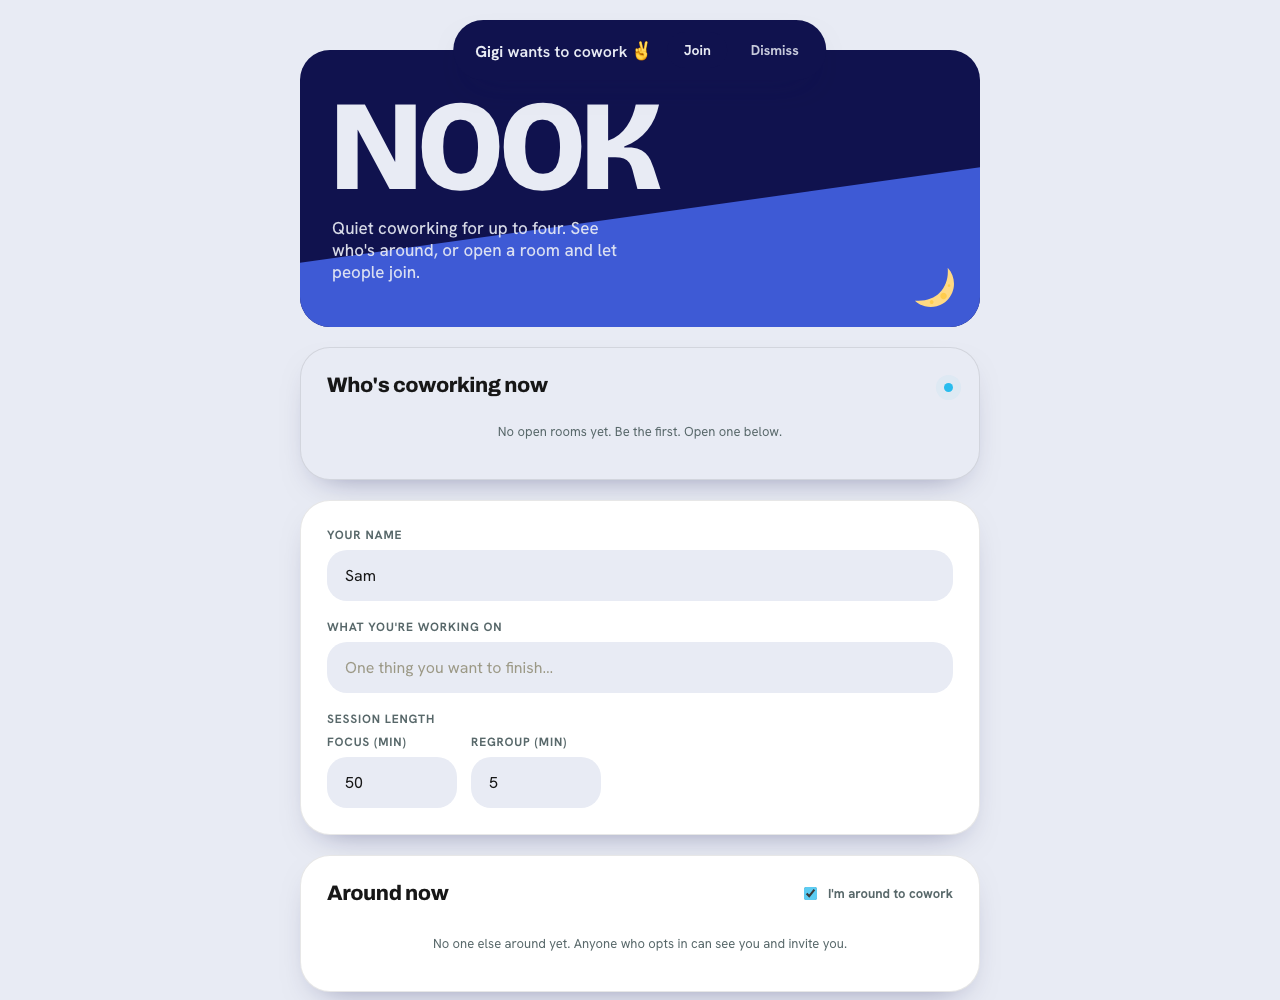
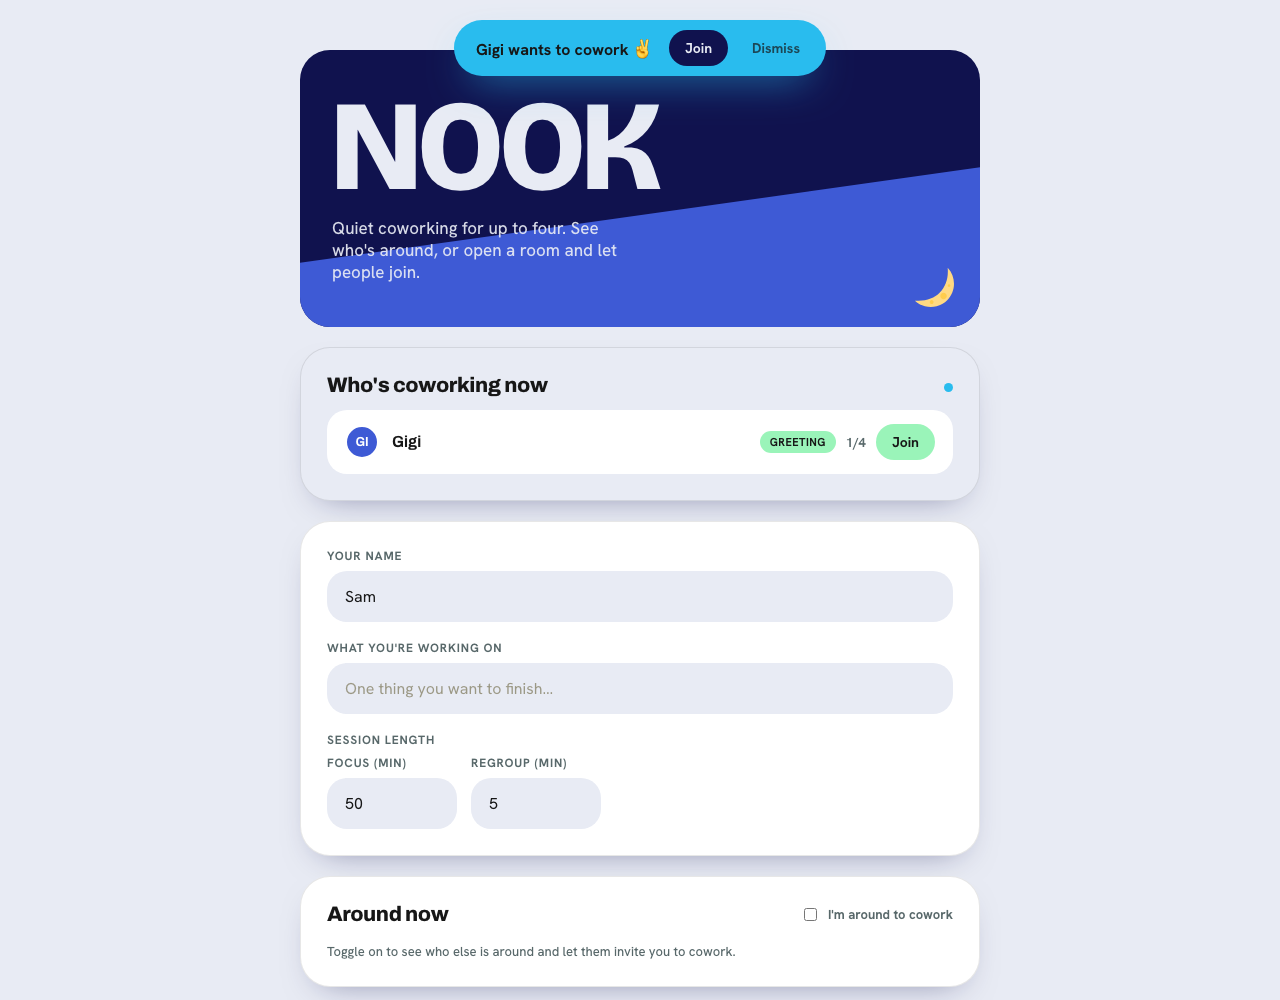
Make the cowork invite toast pop (cyan) instead of blending with the header
The invite toast used --olive (indigo), same as the hero/header, so it and its
Join button blended in. Switch the toast to bright cyan with dark text, give
Join a contrasting indigo fill, add a cyan glow + slide-in. Refresh invite.png.

diff --git a/web/src/styles.css b/web/src/styles.css
@@ -252,11 +252,15 @@ button:disabled { opacity: .45; cursor: not-allowed; }
 .invite-toast {
   position: fixed; top: 20px; left: 50%; transform: translateX(-50%); z-index: 50;
   display: flex; align-items: center; gap: 16px; max-width: calc(100vw - 32px);
-  background: var(--olive); color: var(--cream); padding: 12px 12px 12px 22px;
-  border-radius: var(--r-pill); box-shadow: var(--shadow); font-weight: 600;
+  /* Bright cyan so the invite pops instead of blending with the indigo header. */
+  background: var(--orange); color: var(--ink); padding: 10px 10px 10px 22px;
+  border-radius: var(--r-pill); box-shadow: 0 16px 40px -16px rgba(41, 188, 238, 0.7); font-weight: 700;
+  animation: toast-pop .3s var(--spring);
 }
+@keyframes toast-pop { from { opacity: 0; transform: translate(-50%, -12px); } to { opacity: 1; transform: translate(-50%, 0); } }
 .invite-actions { display: flex; gap: 8px; flex: none; }
-.invite-toast .ghost { color: var(--cream); opacity: .85; }
+.invite-toast .primary { background: var(--olive); color: var(--cream); } /* contrast against cyan */
+.invite-toast .ghost { color: var(--ink); opacity: .7; }
 
 /* In-room Home overlay: peek the home page without leaving the session. */
 .home-overlay {
